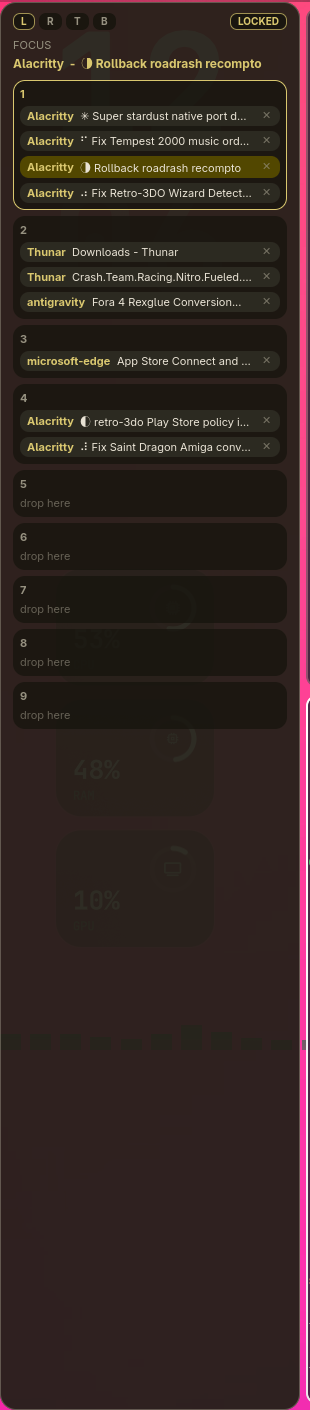
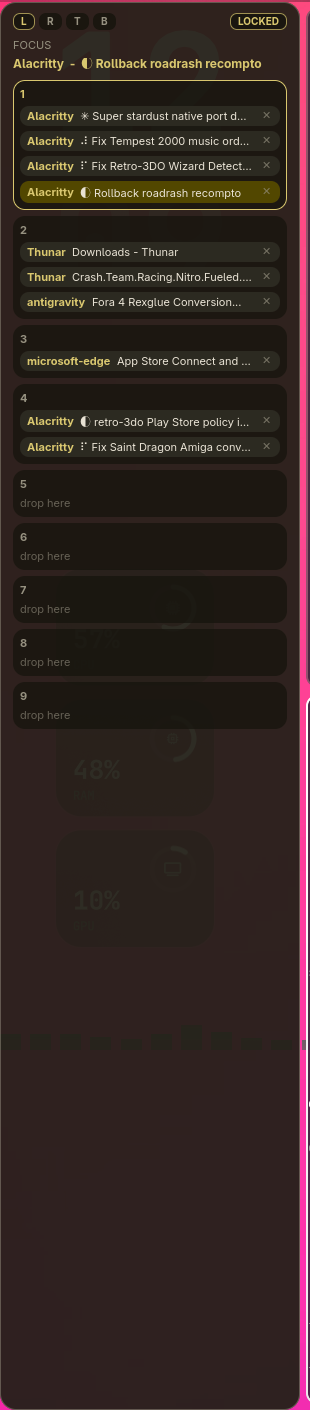
Docs: screenshots, requirements, install and autostart
Adds the top-panel and bar-button screenshots next to the left dock,
spells out the Hyprland 0.57 requirement and the packages each distro
needs, and gives a systemd user unit for autostart - with why launching
a Wayland client from hyprland.start does not work.

Changed region(s): [[0.0581, 0.0936, 0.9, 0.156], [0.2613, 0.0312, 0.2903, 0.0624]]

diff --git a/README.md b/README.md
@@ -10,7 +10,18 @@ and the top line always names the window that currently has focus.
 It docks to any edge, either locked open — reserving its strip so tiled
 windows sit beside it — or popping in when the pointer touches the edge.
 
-![left dock](docs/dock-left.png)
+<img src="docs/dock-left.png" alt="docked on the left" width="300">
+
+## Screenshots
+
+Docked along the top instead, with the workspaces running across:
+
+![top panel](docs/panel-top.png)
+
+The bar button it replaces four workspace buttons with — click to open the
+dock, scroll to change workspace:
+
+![bar button](docs/bar-button.png)
 
 ## Why
 
@@ -18,14 +29,67 @@ Hyprland hides a lot of state: windows parked on another workspace, windows in
 a special workspace (the usual "show desktop" minimise), and nothing on screen
 says what has focus. This puts all of it in one place you can act on.
 
+## Requirements
+
+- **Hyprland 0.57 or newer.** It drives the compositor through the Lua
+  dispatcher API that 0.57 introduced, so it will not work on 0.4x.
+- `gtk4`, `gtk4-layer-shell`, `python-gobject`, and Python 3.9+.
+
+```sh
+# Arch
+sudo pacman -S gtk4 gtk4-layer-shell python-gobject
+
+# Fedora
+sudo dnf install gtk4 gtk4-layer-shell python3-gobject
+
+# Debian/Ubuntu (gtk4-layer-shell may need a backport or a build)
+sudo apt install libgtk-4-1 libgtk4-layer-shell0 python3-gi
+```
+
 ## Install
 
 ```sh
+git clone https://github.com/CrownParkComputing/hypr-windows
+cd hypr-windows
 ./install.sh            # symlinks bin/* into ~/.local/bin
 hypr-windows            # start it (run again to toggle)
 ```
 
-Needs `gtk4`, `gtk4-layer-shell`, `python-gobject` and `hyprctl`.
+To start it with your session, use a systemd user unit:
+
+```ini
+# ~/.config/systemd/user/hypr-windows.service
+[Unit]
+Description=hypr-windows dock
+PartOf=graphical-session.target
+After=graphical-session.target
+
+[Service]
+ExecStart=%h/.local/bin/hypr-windows --no-toggle
+Restart=on-failure
+
+[Install]
+WantedBy=graphical-session.target
+```
+
+```sh
+systemctl --user enable --now hypr-windows
+```
+
+**Do not launch it straight from `hl.on("hyprland.start", ...)`.** That
+handler runs about 0.1s into the compositor's boot, but
+`$XDG_RUNTIME_DIR/wayland-N` only appears around 3s in, so every Wayland
+client started there dies instantly with "cannot connect to display" — which
+looks random, because non-Wayland commands in the same handler survive. If you
+want it in the config anyway, wait for the socket first:
+
+```lua
+hl.on("hyprland.start", function()
+    hl.dispatch(hl.dsp.exec_cmd(
+        "bash -c 'until [ -S \"$XDG_RUNTIME_DIR/$WAYLAND_DISPLAY\" ]; "
+        .. "do sleep 0.2; done; exec hypr-windows --no-toggle'"))
+end)
+```
 
 To put it on the bar in place of waybar's workspace buttons, see
 [`waybar/README.md`](waybar/README.md).
